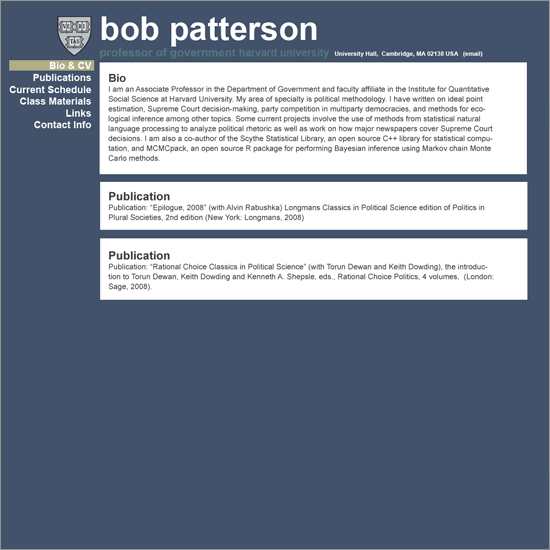
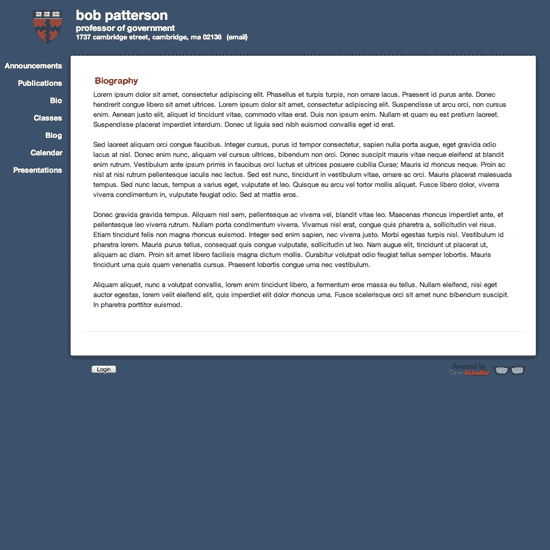
themes screenshots

diff --git a/sites/all/themes/openscholar/scholar_quinn/scholar-quinn.css b/sites/all/themes/openscholar/scholar_quinn/scholar-quinn.css
@@ -1,4 +1,4 @@
-body {
+html, body {
   background: #E5E5E4;
   color:#333;
   }
@@ -89,11 +89,6 @@ h2.title {
   padding-left: 0;
   }
 
-.header-main #header,
-.header-main-right #header {
-  margin-left: 189px;
-  }
-
 #sidebar-second {
   margin-right: -180px
   margin-top: 10px;
@@ -104,9 +99,6 @@ h2.title {
   margin-right: -210px;
   }
 
-body.sidebar-first #content-area .hg-container, body.header-left-main #header .hg-container {
-  padding-right: 0;
-  }
 
 #header .hg-container {
   padding-left: 190px;
@@ -195,10 +187,18 @@ body.sidebar-first #content-area .hg-container, body.header-left-main #header .h
   float:right;
   }
 
+#sidebar-first #scholar-shield {
+  margin: 0 0 0 auto;
+  }
+
 /* SIDEBARS */
 
 .sidebar {
   font-size: 1.1em;
+  }
+
+.header-main #sidebar-first {
+  margin-top: -87px;
   }
 
 #sidebar-first,
@@ -295,8 +295,16 @@ h2#comments-title {
   display:block;
   }
 
-/*Footer*/
+#footer p.copy {
+  padding: 0 60px;
+  }
 
-#footer {
-  padding: 0 180px;
+body.sidebar-first #footer p.copy,
+body.two-sidebars #footer p.copy {
+  padding-left: 220px;
+  }
+
+body.sidebar-second #footer p.copy,
+body.two-sidebars #footer p.copy {
+  padding-right: 220px;
   }

diff --git a/sites/all/themes/openscholar/scholar_base/css/typography.css b/sites/all/themes/openscholar/scholar_base/css/typography.css
@@ -173,6 +173,7 @@ p.copy a.poweredby  {
   height:26px;
   text-decoration: none !important;
   border: none !important;
+  padding: 0 !important;
   }
 
 p.copy a.poweredby:hover {

diff --git a/sites/all/themes/openscholar/scholar_quinn/flavors/white/white.css b/sites/all/themes/openscholar/scholar_quinn/flavors/white/white.css
@@ -1,4 +1,4 @@
-body {
+html,body {
   background: #fff;
   color: #000;
   }

diff --git a/sites/all/themes/openscholar/scholar_quinn/flavors/blue/blue.css b/sites/all/themes/openscholar/scholar_quinn/flavors/blue/blue.css
@@ -1,4 +1,4 @@
-body {
+html,body {
   background: #42526a;
   }
 

diff --git a/sites/all/themes/openscholar/scholar_quinn/flavors/brown/brown.css b/sites/all/themes/openscholar/scholar_quinn/flavors/brown/brown.css
@@ -1,4 +1,4 @@
-body {
+html,body {
   background: #6c4707;
   }
 

diff --git a/sites/all/themes/openscholar/scholar_quinn/flavors/dark_brown/dark_brown.css b/sites/all/themes/openscholar/scholar_quinn/flavors/dark_brown/dark_brown.css
@@ -1,4 +1,4 @@
-body {
+html,body {
   background: #4c4334;
   }
 

diff --git a/sites/all/themes/openscholar/scholar_quinn/flavors/dark_grey/dark_grey.css b/sites/all/themes/openscholar/scholar_quinn/flavors/dark_grey/dark_grey.css
@@ -1,4 +1,4 @@
-body {
+html,body {
   background: #53565e;
   }
 

diff --git a/sites/all/themes/openscholar/scholar_quinn/flavors/green/green.css b/sites/all/themes/openscholar/scholar_quinn/flavors/green/green.css
@@ -1,4 +1,4 @@
-body {
+html,body {
   background: #697a64;
   }
 

diff --git a/sites/all/themes/openscholar/scholar_quinn/flavors/khaki/khaki.css b/sites/all/themes/openscholar/scholar_quinn/flavors/khaki/khaki.css
@@ -1,4 +1,4 @@
-body {
+html,body {
   background: #c4ab97;
   }
 

diff --git a/sites/all/themes/openscholar/scholar_quinn/flavors/sage/sage.css b/sites/all/themes/openscholar/scholar_quinn/flavors/sage/sage.css
@@ -1,4 +1,4 @@
-body {
+html,body {
   background: #91997c;
   }
 
